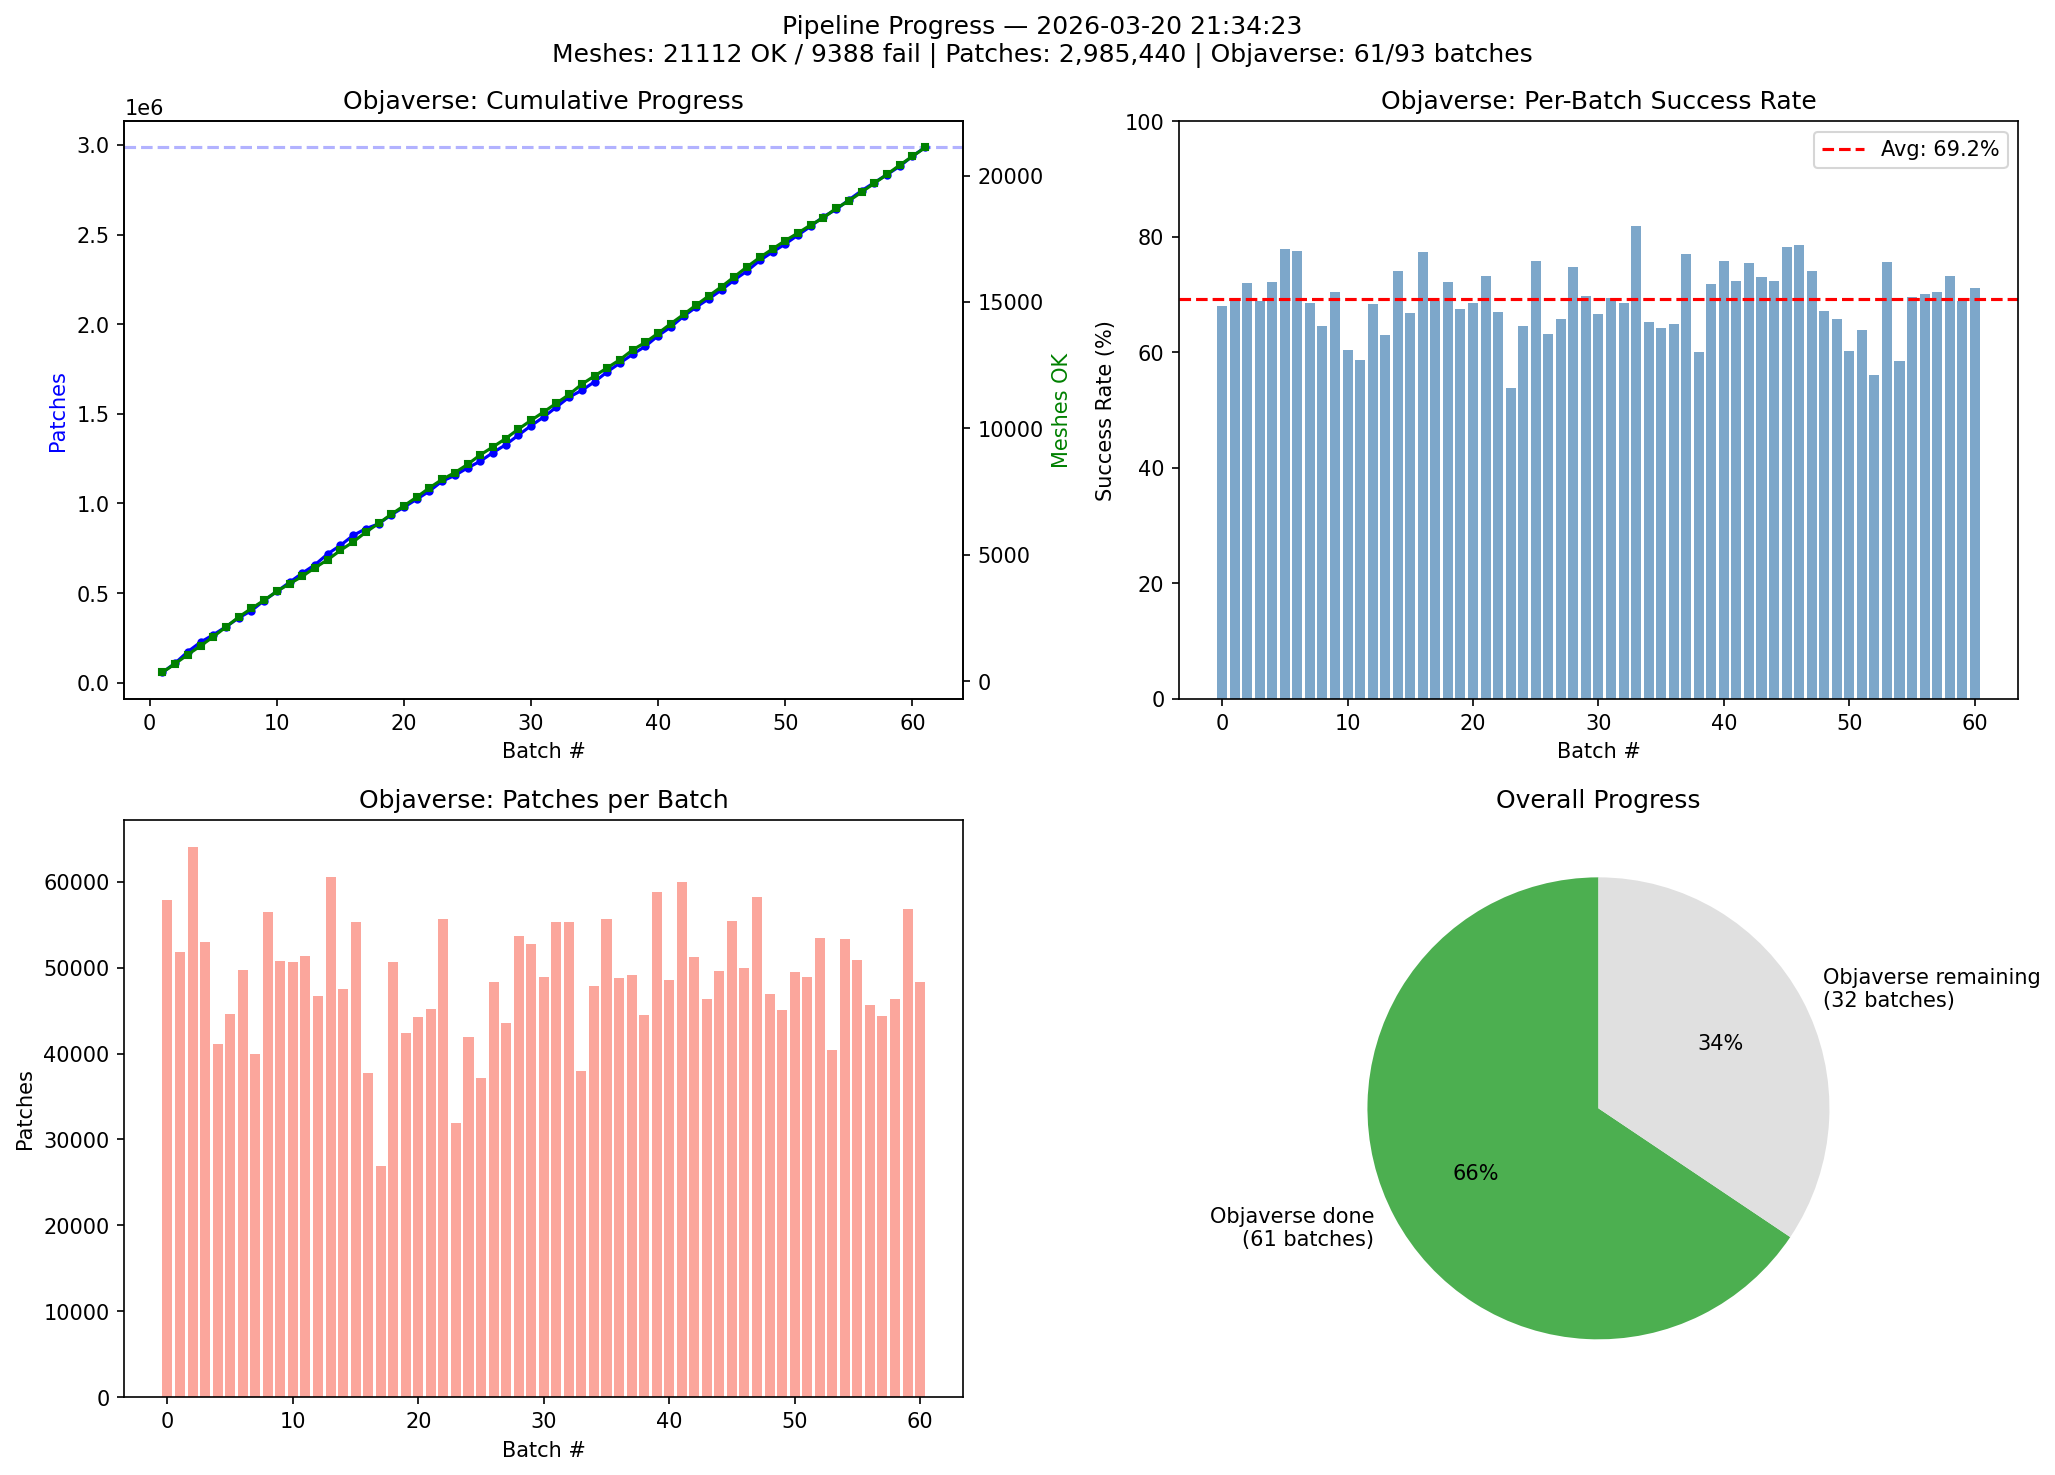
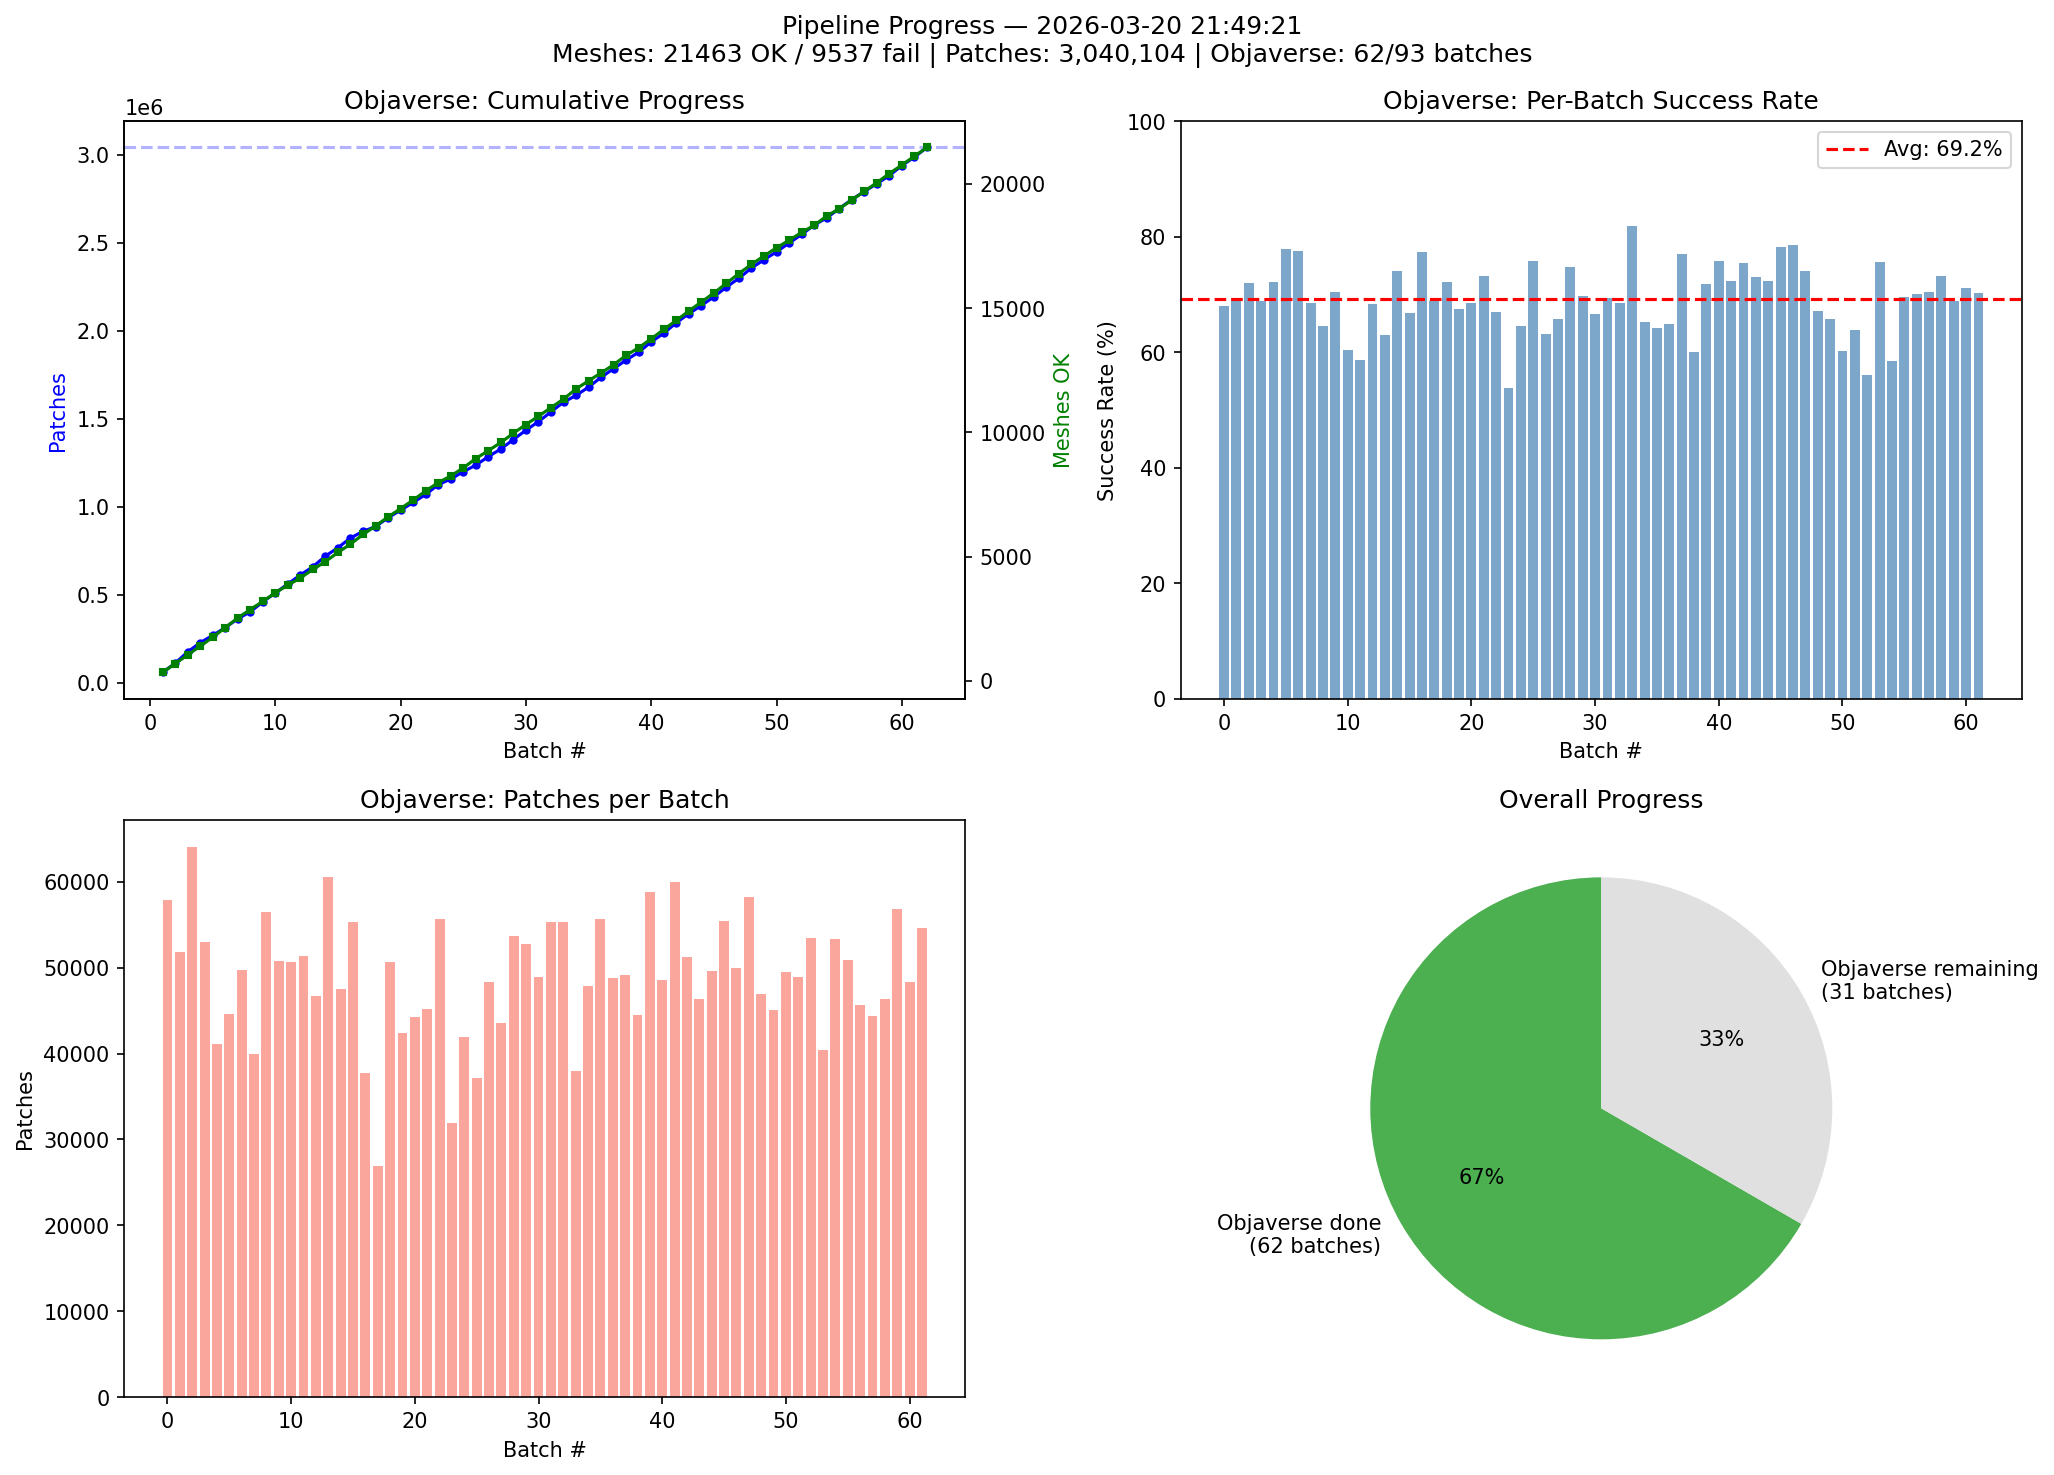
chore: update pipeline monitoring (batch_062 completed)
- Objaverse: 62/93 batches, 21463 OK / 9537 fail
- Patches: 3,040,104

diff --git a/results/dataset-pipeline/REPORT.md b/results/dataset-pipeline/REPORT.md
@@ -1,17 +1,17 @@
 # Dataset Pipeline Progress Report
 
-**Generated:** 2026-03-20 21:34:23
+**Generated:** 2026-03-20 21:49:21
 
 ## Overall
-- Total meshes processed: 21112 OK / 9388 fail
-- Total patches: 2,985,440
+- Total meshes processed: 21463 OK / 9537 fail
+- Total patches: 3,040,104
 
 ## Objaverse-LVIS (Phase 1)
-- Batches: 61 / 93 completed
-- Meshes: 21112 OK / 9388 fail
+- Batches: 62 / 93 completed
+- Meshes: 21463 OK / 9537 fail
 - Success rate: 69.2%
-- Patches: 2,985,440
-- Avg patches/mesh: 141.4
+- Patches: 3,040,104
+- Avg patches/mesh: 141.6
 
 ## ShapeNet (Phase 2)
 - Batches: 0 completed
@@ -21,5 +21,5 @@
 
 ## Disk Usage
 - Total: 80GB
-- Used: 16GB
-- Free: 63GB
+- Used: 15GB
+- Free: 64GB
